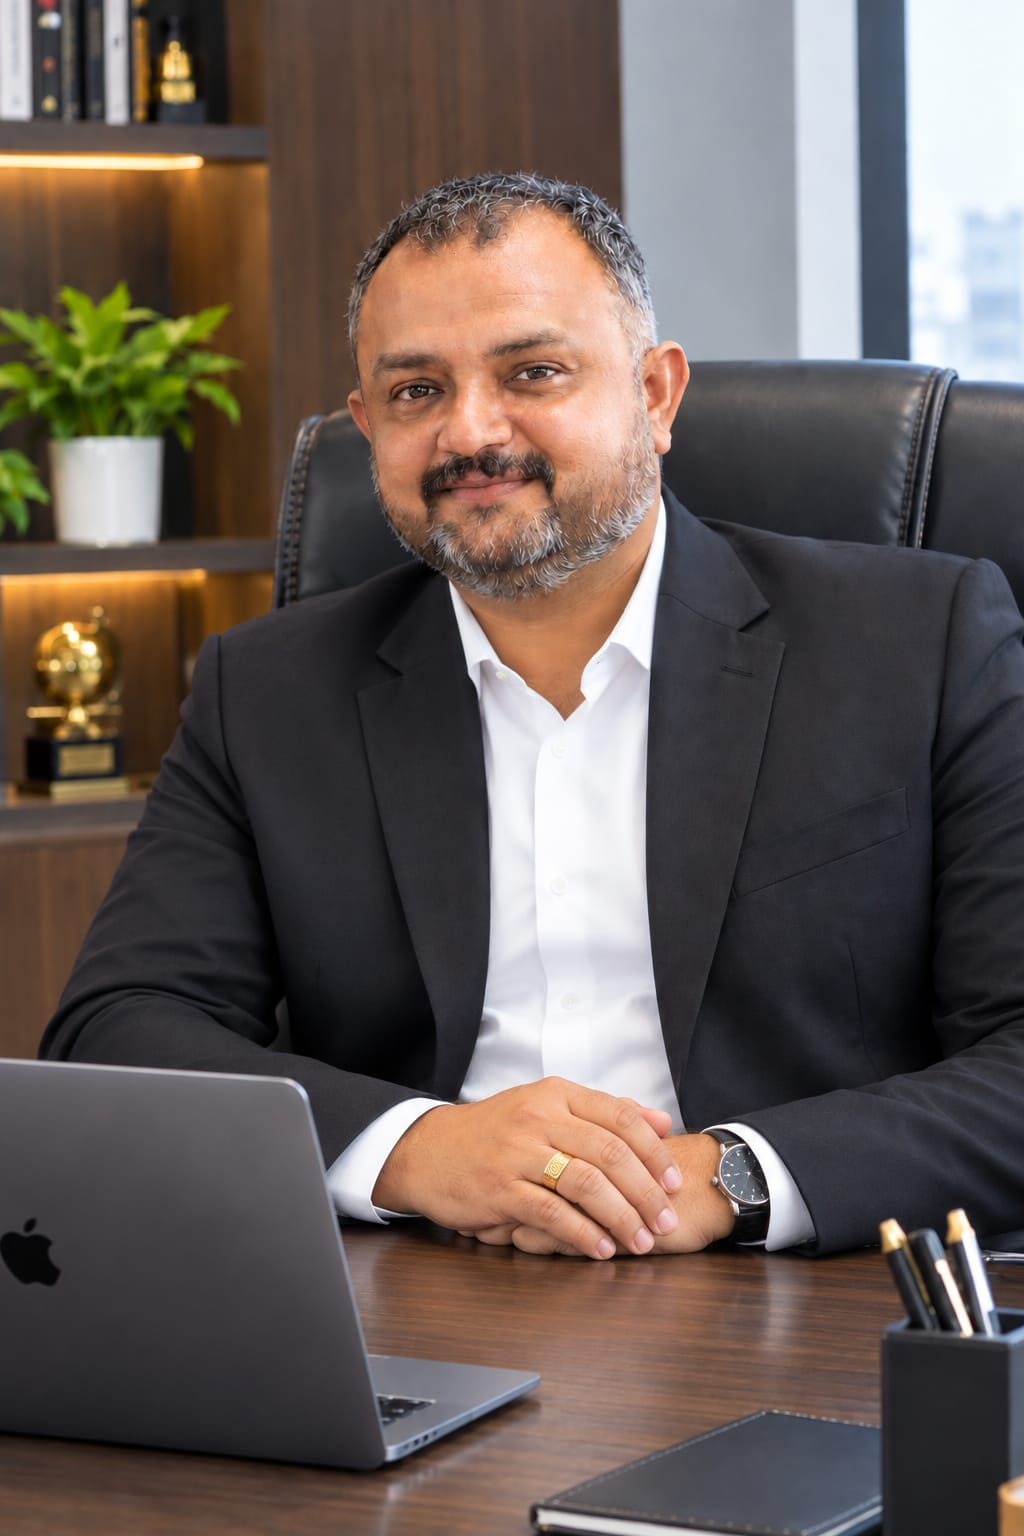
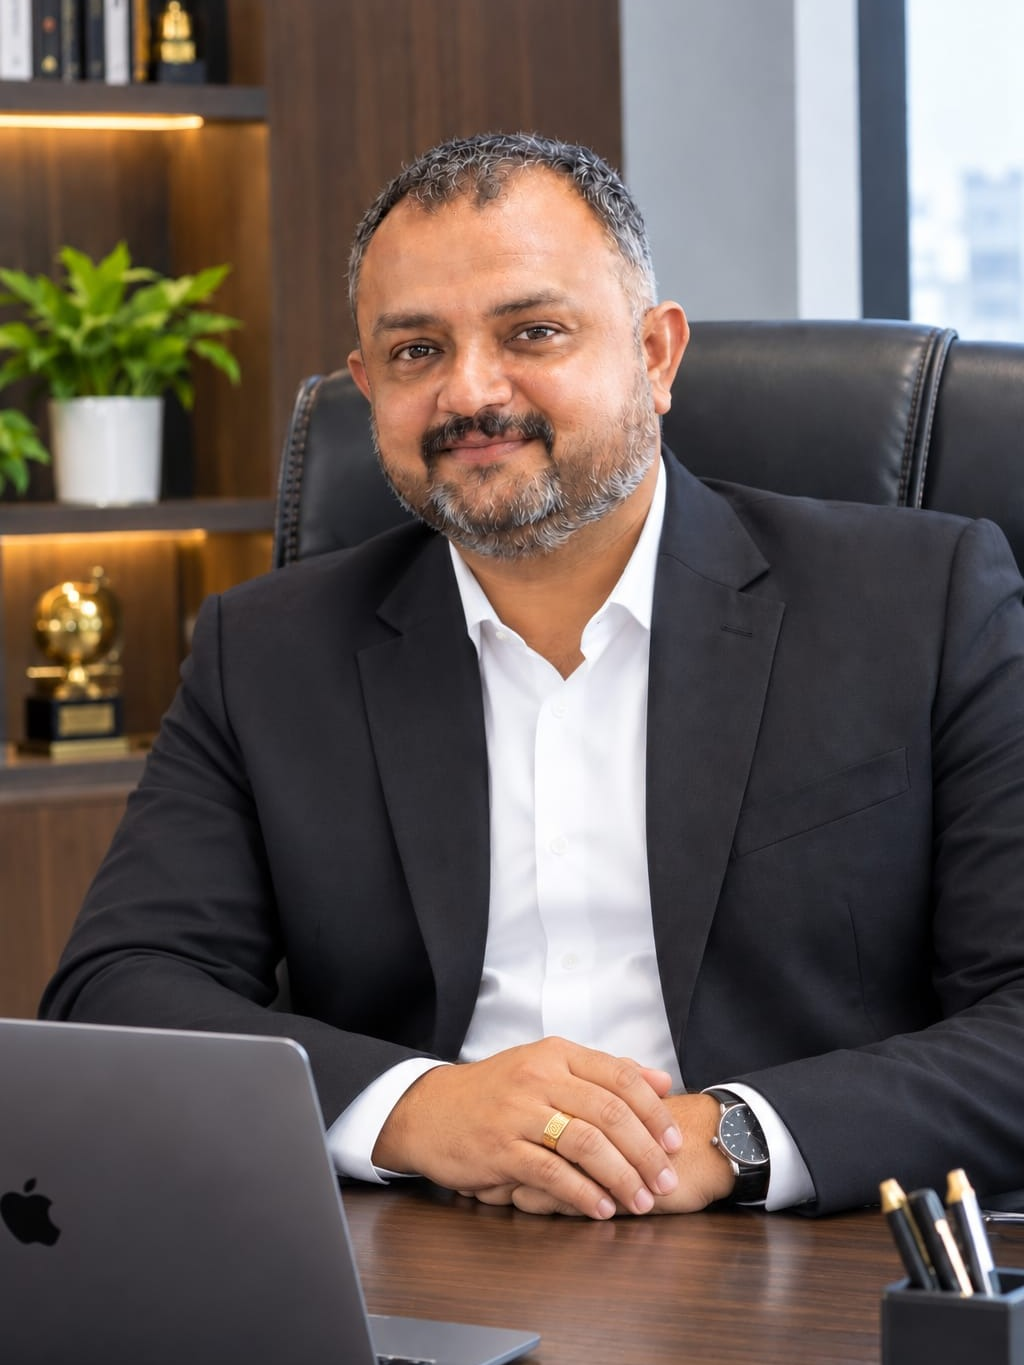
feat(about): implement 3:4 aspect ratio and 3-column executive grid for full portrait visibility

diff --git a/lib/pages/about_page.dart b/lib/pages/about_page.dart
@@ -659,24 +659,29 @@ class AboutPage extends StatelessWidget {
               // 5 Founder & Leadership Cards Grid
               LayoutBuilder(
                 builder: (context, constraints) {
-                  if (isMobile) {
-                    return Column(
-                      children: founders.map((f) => Padding(
-                        padding: const EdgeInsets.only(bottom: 20.0),
-                        child: _buildFounderCard(context, f),
-                      )).toList(),
-                    );
+                  final double maxWidth = constraints.maxWidth;
+                  final double cardWidth;
+
+                  if (maxWidth >= 992) {
+                    // Desktop: 3 columns (3 on top row, 2 centered on bottom row)
+                    cardWidth = (maxWidth - 48) / 3;
+                  } else if (maxWidth >= 640) {
+                    // Tablet: 2 columns
+                    cardWidth = (maxWidth - 24) / 2;
                   } else {
-                    return Wrap(
-                      spacing: 24,
-                      runSpacing: 24,
-                      alignment: WrapAlignment.center,
-                      children: founders.map((f) => SizedBox(
-                        width: (constraints.maxWidth - 24) / 2,
-                        child: _buildFounderCard(context, f),
-                      )).toList(),
-                    );
+                    // Mobile: 1 column
+                    cardWidth = maxWidth;
                   }
+
+                  return Wrap(
+                    spacing: 24,
+                    runSpacing: 28,
+                    alignment: WrapAlignment.center,
+                    children: founders.map((f) => SizedBox(
+                      width: cardWidth,
+                      child: _buildFounderCard(context, f),
+                    )).toList(),
+                  );
                 },
               ),
             ],
@@ -707,75 +712,76 @@ class AboutPage extends StatelessWidget {
         child: Column(
           crossAxisAlignment: CrossAxisAlignment.start,
           children: [
-            // Founder Portrait Photo with Floating Experience Badge
+            // Founder Portrait Photo with Floating Experience Badge (Exact 3:4 aspect ratio for full view)
             if (imagePath != null)
-              Stack(
-                children: [
-                  Image.asset(
-                    imagePath,
-                    height: 320,
-                    width: double.infinity,
-                    fit: BoxFit.cover,
-                    alignment: Alignment.topCenter,
-                    errorBuilder: (context, error, stackTrace) {
-                      return Container(
-                        height: 240,
-                        color: AppColors.primaryLight,
-                        child: const Center(
-                          child: Icon(Icons.person_rounded, size: 56, color: AppColors.primary),
+              AspectRatio(
+                aspectRatio: 3 / 4,
+                child: Stack(
+                  fit: StackFit.expand,
+                  children: [
+                    Image.asset(
+                      imagePath,
+                      fit: BoxFit.cover,
+                      alignment: Alignment.topCenter,
+                      errorBuilder: (context, error, stackTrace) {
+                        return Container(
+                          color: AppColors.primaryLight,
+                          child: const Center(
+                            child: Icon(Icons.person_rounded, size: 56, color: AppColors.primary),
+                          ),
+                        );
+                      },
+                    ),
+                    // Dark gradient vignette overlay at the bottom of the photo
+                    Positioned(
+                      bottom: 0,
+                      left: 0,
+                      right: 0,
+                      height: 90,
+                      child: Container(
+                        decoration: BoxDecoration(
+                          gradient: LinearGradient(
+                            begin: Alignment.topCenter,
+                            end: Alignment.bottomCenter,
+                            colors: [
+                              Colors.transparent,
+                              Colors.black.withValues(alpha: 0.7),
+                            ],
+                          ),
                         ),
-                      );
-                    },
-                  ),
-                  // Dark gradient vignette overlay at the bottom of the photo
-                  Positioned(
-                    bottom: 0,
-                    left: 0,
-                    right: 0,
-                    height: 80,
-                    child: Container(
-                      decoration: BoxDecoration(
-                        gradient: LinearGradient(
-                          begin: Alignment.topCenter,
-                          end: Alignment.bottomCenter,
-                          colors: [
-                            Colors.transparent,
-                            Colors.black.withValues(alpha: 0.65),
+                      ),
+                    ),
+                    // 15+ Years Industry Experience Badge floating bottom-left of photo
+                    Positioned(
+                      bottom: 14,
+                      left: 14,
+                      child: Container(
+                        padding: const EdgeInsets.symmetric(horizontal: 10, vertical: 5),
+                        decoration: BoxDecoration(
+                          color: Colors.black.withValues(alpha: 0.78),
+                          borderRadius: BorderRadius.circular(16),
+                          border: Border.all(color: AppColors.secondary.withValues(alpha: 0.4)),
+                        ),
+                        child: Row(
+                          mainAxisSize: MainAxisSize.min,
+                          children: [
+                            const Icon(Icons.workspace_premium_rounded, size: 13, color: AppColors.secondary),
+                            const SizedBox(width: 5),
+                            Text(
+                              f['exp']!,
+                              style: GoogleFonts.outfit(
+                                fontSize: 11,
+                                fontWeight: FontWeight.bold,
+                                color: Colors.white,
+                                letterSpacing: 0.3,
+                              ),
+                            ),
                           ],
                         ),
                       ),
                     ),
-                  ),
-                  // 15+ Years Industry Experience Badge floating bottom-left of photo
-                  Positioned(
-                    bottom: 12,
-                    left: 14,
-                    child: Container(
-                      padding: const EdgeInsets.symmetric(horizontal: 10, vertical: 5),
-                      decoration: BoxDecoration(
-                        color: Colors.black.withValues(alpha: 0.75),
-                        borderRadius: BorderRadius.circular(16),
-                        border: Border.all(color: AppColors.secondary.withValues(alpha: 0.4)),
-                      ),
-                      child: Row(
-                        mainAxisSize: MainAxisSize.min,
-                        children: [
-                          const Icon(Icons.workspace_premium_rounded, size: 13, color: AppColors.secondary),
-                          const SizedBox(width: 5),
-                          Text(
-                            f['exp']!,
-                            style: GoogleFonts.outfit(
-                              fontSize: 11,
-                              fontWeight: FontWeight.bold,
-                              color: Colors.white,
-                              letterSpacing: 0.3,
-                            ),
-                          ),
-                        ],
-                      ),
-                    ),
-                  ),
-                ],
+                  ],
+                ),
               ),
 
             // Card Body Content
